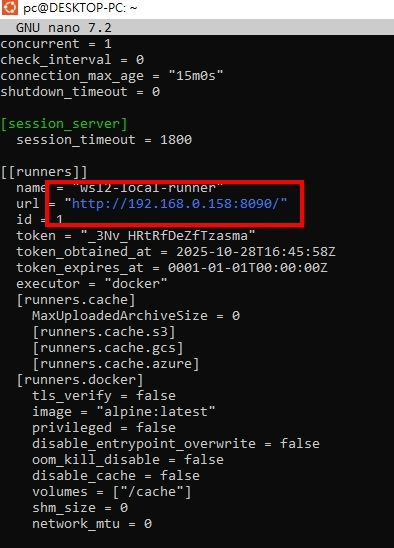
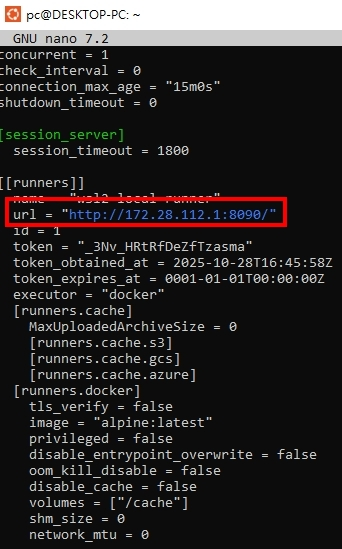
update somethings

diff --git a/Jenkins/README.md b/Jenkins/README.md
@@ -98,23 +98,3 @@
 - #### *在 WSL2 啟動 [Gitlab Runner](../GitLab-Runner/README.md)*
 
 - #### *在 GitLab 專案中建立 .gitlab-ci.yaml*
-
-
-
-[//]: # (- #### *申請 GitLab Access Tokens &#40; API &#41;*)
-[//]: # (- ![PNG]&#40;../sample/jenkins_13.jpg&#41;)
-[//]: # ()
-[//]: # (- #### *建立 GitLab Webhook Token*)
-[//]: # (- ![PNG]&#40;../sample/jenkins_14.jpg&#41;)
-[//]: # (    ```Bash)
-[//]: # (    # gitlab)
-[//]: # (    # http://host.docker.internal:8090)
-[//]: # (    ``` )
-[//]: # (- ![PNG]&#40;../sample/jenkins_15.jpg&#41;)
-[//]: # ()
-[//]: # (- #### *在 GitLab 專案設定 Webhook*)
-[//]: # (    ```Bash)
-[//]: # (    http://192.168.0.158:8095/jenkins/job/Hello-World-ETL)
-[//]: # (    http://host.docker.internal:8095/jenkins/job/Hello-World-ETL/)
-[//]: # (    ``` )
-[//]: # (- ![PNG]&#40;../sample/jenkins_16.jpg&#41;)

diff --git a/GitLab-Runner/README.md b/GitLab-Runner/README.md
@@ -49,11 +49,23 @@
 - #### *檢視服務是否呈現綠點*
 - ![PNG](../sample/gitlab_runner_0.PNG)
 
+- #### *確認是否打勾 `Run untagged jobs`*
+- ![PNG](../sample/gitlab_runner_3.PNG)
+- ![PNG](../sample/gitlab_runner_4.PNG)
+
 - #### *檢視服務運行狀況*
   ```bash
   sudo service gitlab-runner status
   ```
 
+- #### *找出 WSL2 宿主機 Gateway IP*
+  ```bash
+  # 在 WSL2 終端機運行
+  cat /etc/resolv.conf | grep nameserver | awk '{print $2}'
+  
+  ex: 172.28.112.1
+  ```
+  
 - #### *檢視服務是否能正確連接到 Gitlab*
   ```bash
   sudo nano /etc/gitlab-runner/config.toml
@@ -63,3 +75,7 @@
   ```
 - ![PNG](../sample/gitlab_runner_1.PNG)
 - ![PNG](../sample/gitlab_runner_2.PNG)
+
+- #### *測試 Gitlab CI 是否正常運行*
+- ![PNG](../sample/gitlab_runner_5.PNG)
+- ![PNG](../sample/gitlab_runner_6.PNG)

diff --git a/README.md b/README.md
@@ -23,6 +23,7 @@
 | 地端開發除錯測試 | 第 1 階段 | 2025-10-27 |
 | ETL 腳本範例測試 | 第 1 階段 | 2025-10-27 |
 | 部署 Jenkins | 第 2 階段 | 2025-10-28 |
+| 啟動 Gitlab Runner | 第 2 階段 | 2025-10-28 |
 | Jenkins CI/CD 管道建立 | 第 2 階段 | - |
 | Telegram Alert 機制建立 | 第 2 階段 | - |
 | 部署 Grafana + Loki | 第 3 階段 | - |
@@ -64,6 +65,7 @@
   - #### *B.1　GitLab Commit : 將開發腳本上傳程式庫*
   - ![PNG](./sample/gitlab_commit.PNG)
   - #### *B.2　Jenkins CI/CD : 確認執行情況*
+  - ![PNG](../sample/gitlab_runner_6.PNG)
   - #### *B.3　Airflow : 檢查上線版本是否出現 DAGs*
   - ![PNG](./sample/airflow-graph.gif)
   - #### *B.4　PostgreSQL UI : 檢查資料入庫*
